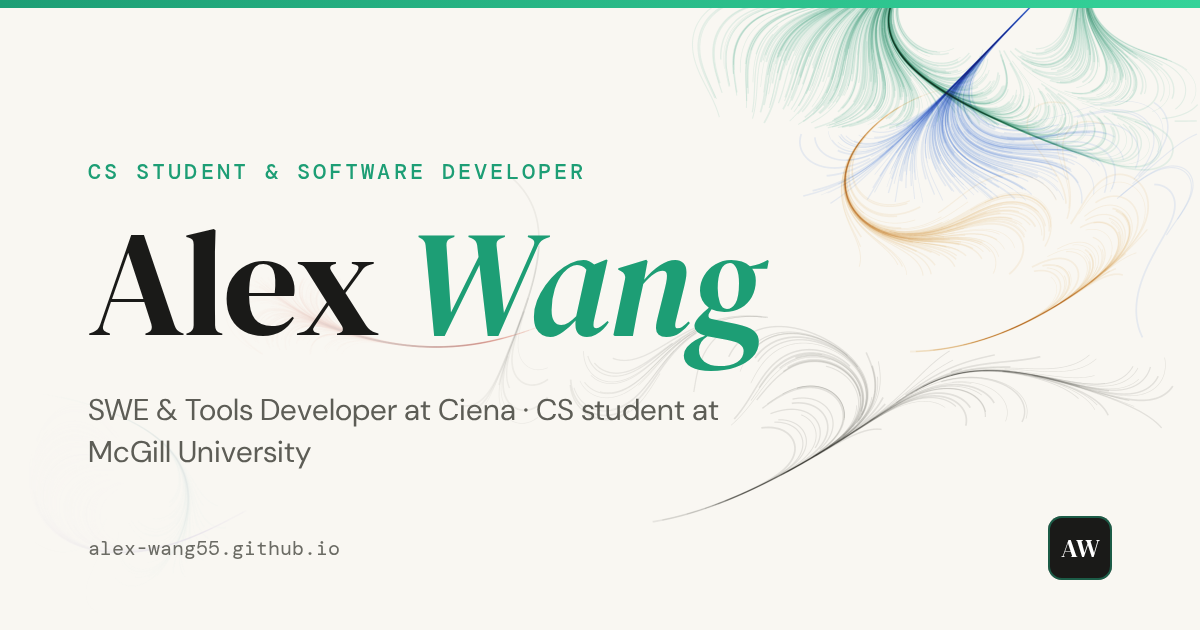
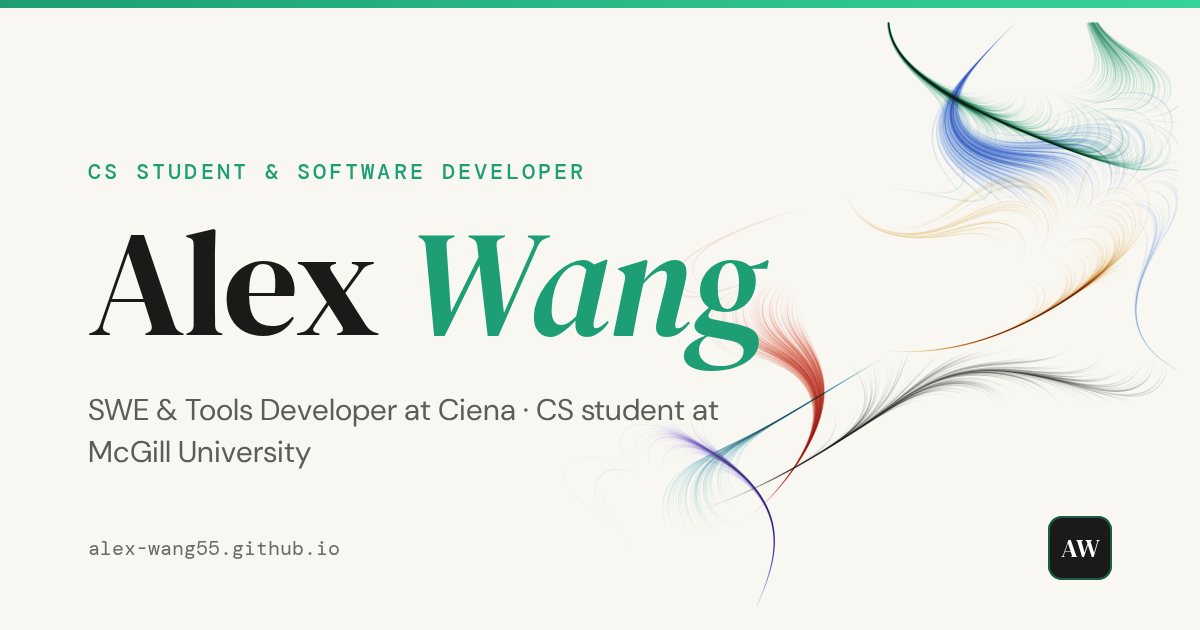
updated brush

diff --git a/index.html b/index.html
@@ -1281,29 +1281,41 @@
     let extra = 0;
     const colors = data.map(r => named[r.name] || EXTRA[extra++ % EXTRA.length]);
     const all = data.flatMap(r => r.dates), t0 = Math.min(...all), t1 = Math.max(...all);
-    const per = Math.max(1, Math.min(5, Math.ceil(1100 / all.length)));
+    const per = Math.max(2, Math.min(7, Math.ceil(1700 / all.length)));
     const rnd = mulberry(7), walkers = [];
+    // keep the painting to the right of the text on desktop, with breathing room at every edge
+    const XA = W > 760 ? 0.5 : 0.1, XB = 0.95, PAD = 28, TOP = 72;
     data.forEach((r, ri) => {
       const band = (ri + 0.5) / data.length;
       r.dates.forEach(ts => {
         const u = (ts - t0) / Math.max(1, t1 - t0);
-        for (let k = 0; k < per; k++) walkers.push({
-          x: W * 0.06 + u * W * 0.9 + (rnd() - 0.5) * 90, y: H * (0.1 + band * 0.8) + (rnd() - 0.5) * 80,
-          col: colors[ri], life: 60 + rnd() * 110, w: 0.5 + rnd() * 1.4, delay: u * 80 + rnd() * 30, s: ri * 1.3
-        });
+        for (let k = 0; k < per; k++) {
+          const life = 60 + rnd() * 115;   // shorter tails, so strokes don't pile into dark scratches
+          walkers.push({
+            x: W * XA + u * W * (XB - XA) + (rnd() - 0.5) * 70, y: H * (0.17 + band * 0.66) + (rnd() - 0.5) * 70,
+            col: colors[ri], life, life0: life, w: 0.5 + rnd() * 1.3, delay: u * 80 + rnd() * 30, s: ri * 1.3
+          });
+        }
       });
     });
-    const alpha = dark ? 0.06 : 0.09;
+    const alpha = dark ? 0.1 : 0.15;
+    // each stroke fades in and out (and thins at the tips) like a real brushstroke
     function stepWalker(w, n) {
-      actx.strokeStyle = w.col; actx.lineWidth = w.w;
-      actx.beginPath(); actx.moveTo(w.x, w.y);
-      for (let k = 0; k < n && w.life > 0; k++) {
-        const a = fieldAngle(w.x, w.y, w.s);
-        const nx = w.x + Math.cos(a) * 1.3, ny = w.y + Math.sin(a) * 1.3;
-        if (nx < 2 || nx > W - 2 || ny < 2 || ny > H - 2) { w.life = 0; break; }
-        actx.lineTo(nx, ny); w.x = nx; w.y = ny; w.life--;
+      let left = n;
+      while (left > 0 && w.life > 0) {
+        const chunk = Math.min(3, left);
+        const p = 1 - (w.life - chunk / 2) / w.life0, taper = Math.sin(Math.PI * Math.min(1, Math.max(0, p)));
+        actx.globalAlpha = alpha * taper;
+        actx.strokeStyle = w.col; actx.lineWidth = w.w * (0.35 + 0.65 * taper);
+        actx.beginPath(); actx.moveTo(w.x, w.y);
+        for (let k = 0; k < chunk && w.life > 0; k++, left--) {
+          const a = fieldAngle(w.x, w.y, w.s);
+          const nx = w.x + Math.cos(a) * 1.3, ny = w.y + Math.sin(a) * 1.3;
+          if (nx < PAD || nx > W - PAD || ny < TOP || ny > H - PAD) { w.life = 0; break; }
+          actx.lineTo(nx, ny); w.x = nx; w.y = ny; w.life--;
+        }
+        actx.stroke();
       }
-      actx.stroke();
     }
     actx.globalCompositeOperation = dark ? 'lighter' : 'multiply';
     actx.globalAlpha = alpha;
@@ -1331,8 +1343,11 @@
   /* =====================================================================
      6. Git log: experience + education as a commit graph
      ===================================================================== */
-  const LANES = ['var(--ink)', '#d9583b', '#7c5cd6', 'var(--accent)', '#3b7bd9', '#d9a13b'];
+  const LANES = ['var(--ink)', '#d9583b', '#7c5cd6', 'var(--accent)', '#3b7bd9', '#d9a13b', '#c2477a'];
   const COMMITS = [
+    { lane: 6, date: { y: 2026 }, refs: ['community/mchacks'], open: true,
+      msg: { en: 'Join McHacks 14 organizing team as Experience Coordinator', fr: 'Arrivée dans l’équipe organisatrice de McHacks 14 comme coordonnateur de l’expérience', zh: '加入 McHacks 14 组织团队，担任体验协调员' },
+      detail: { en: 'Helping run McHacks 14, McGill’s student-run hackathon, after competing at McHacks13.', fr: 'J’aide à organiser McHacks 14, le hackathon étudiant de McGill, après avoir participé à McHacks13.', zh: '参加过 McHacks13 后，加入团队协助举办麦吉尔大学学生主办的黑客松 McHacks 14。' } },
     { lane: 3, date: { y: 2026, m: 6 }, refs: ['HEAD', 'feature/ming'], open: true,
       msg: { en: 'Persona-based AI coaches with spaced repetition', fr: 'Coachs IA à personas et répétition espacée', zh: '基于角色的 AI 教练与间隔重复' },
       detail: { en: 'Ming 明 · AI Mandarin coach. Next.js, Claude API, Google Cloud TTS, Whisper, Supabase.', fr: 'Ming 明 · coach de mandarin propulsé par l’IA. Next.js, Claude API, Google Cloud TTS, Whisper, Supabase.', zh: 'Ming 明 · AI 普通话教练。Next.js、Claude API、Google Cloud TTS、Whisper、Supabase。' } },
@@ -1383,10 +1398,10 @@
       detail: { en: 'Computer science courses focused on Python, C, Java and HTML.', fr: 'Cours d’informatique axés sur Python, C, Java et HTML.', zh: '计算机课程，重点学习 Python、C、Java 与 HTML。' } }
   ];
   const EDGES = [
-    [0, 5, 'fork'], [1, 5, 'fork'], [2, 5, 'fork'], [3, 4, 'line'], [4, 5, 'fork'],
-    [5, 8, 'line'], [5, 6, 'merge'], [6, 7, 'line'], [7, 8, 'fork'],
-    [8, 14, 'line'], [8, 9, 'merge'], [9, 10, 'line'], [10, 11, 'line'], [11, 12, 'line'], [12, 13, 'line'], [13, 14, 'fork'],
-    [14, 15, 'line'], [15, 16, 'line'], [16, 18, 'line'], [16, 17, 'merge'], [17, 18, 'fork']
+    [0, 6, 'fork'], [1, 6, 'fork'], [2, 6, 'fork'], [3, 6, 'fork'], [4, 5, 'line'], [5, 6, 'fork'],
+    [6, 9, 'line'], [6, 7, 'merge'], [7, 8, 'line'], [8, 9, 'fork'], [9, 15, 'line'], [9, 10, 'merge'],
+    [10, 11, 'line'], [11, 12, 'line'], [12, 13, 'line'], [13, 14, 'line'], [14, 15, 'fork'], [15, 16, 'line'],
+    [16, 17, 'line'], [17, 19, 'line'], [17, 18, 'merge'], [18, 19, 'fork']
   ];
   const gitBody = $('#gitBody'), gitSvg = $('#gitSvg'), SVGNS = 'http://www.w3.org/2000/svg';
   const hash = s => { let h = 2166136261; for (const ch of s) h = Math.imul(h ^ ch.charCodeAt(0), 16777619); return (h >>> 0).toString(16).padStart(8, '0').slice(0, 7); };
@@ -1402,7 +1417,7 @@
     const openSet = new Set(gitRows.map((r, i) => r.classList.contains('open') ? i : -1));
     gitRows.forEach(r => r.remove());
     LW = innerWidth < 700 ? 15 : 22; GX = innerWidth < 700 ? 10 : 16;
-    gitBody.style.setProperty('--gw', (GX * 2 + LW * 5 + 6) + 'px');
+    gitBody.style.setProperty('--gw', (GX * 2 + LW * 6 + 6) + 'px');
     gitRows = COMMITS.map((c, i) => {
       const r = document.createElement('div');
       r.className = 'grow' + (c.detail ? ' clickable' : '') + (openSet.has(i) ? ' open' : '') + (gitPlayed || REDUCED ? '' : ' pre');
@@ -1420,7 +1435,7 @@
   const rowY = i => gitRows[i].offsetTop + 22;
   function layoutGit() {
     gitSvg.innerHTML = ''; gitPaths = []; gitDots = [];
-    gitSvg.setAttribute('width', GX * 2 + LW * 5 + 6); gitSvg.setAttribute('height', gitBody.scrollHeight);
+    gitSvg.setAttribute('width', GX * 2 + LW * 6 + 6); gitSvg.setAttribute('height', gitBody.scrollHeight);
     EDGES.forEach(([a, b, kind]) => {
       const A = COMMITS[a], B = COMMITS[b], x1 = lx(A.lane), y1 = rowY(a), x2 = lx(B.lane), y2 = rowY(b), R = 37;
       let d, col;
